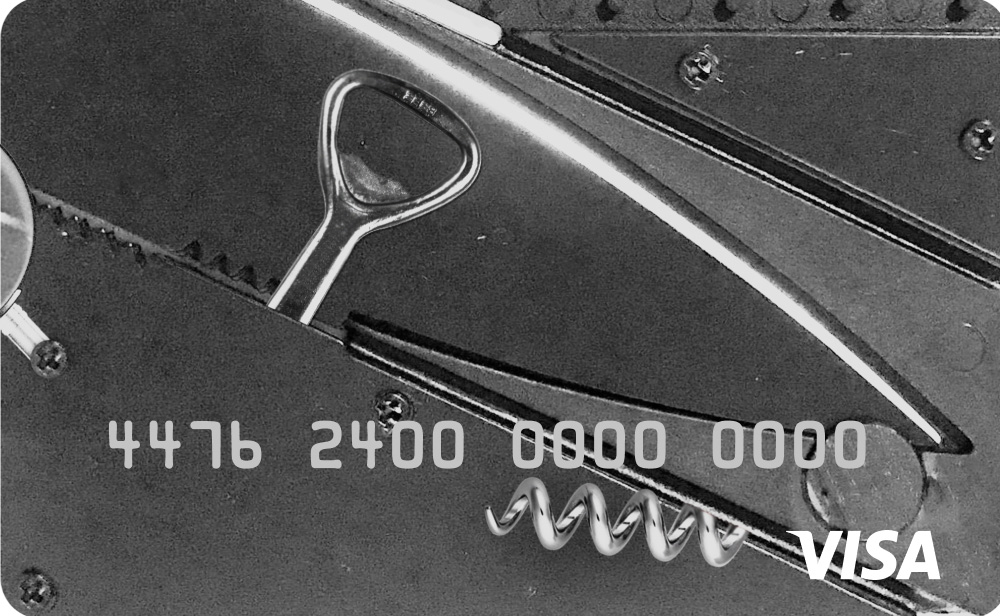
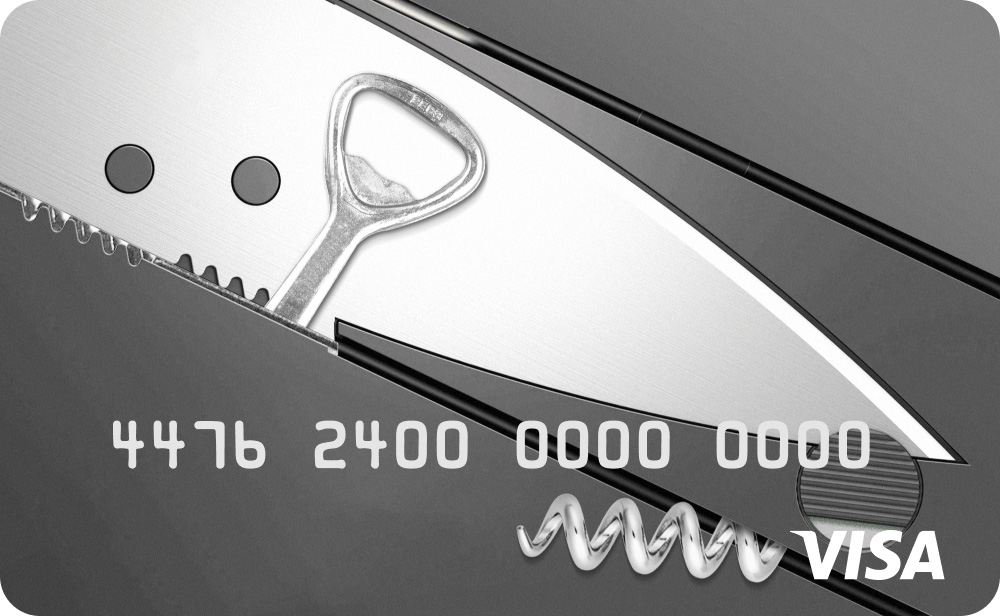
change 11,12 cards img and add pages

diff --git a/src/js/special.js b/src/js/special.js
@@ -70,10 +70,13 @@ class Special extends BaseSpecial {
     createQuestion() {
         EL.question = makeElement('div', CSS.main + '-question');
 
+        EL.qPages = makeElement('div', CSS.main + '-question__pages');
+
         EL.qCard = makeElement('div', [CSS.main + '-question__card', CSS.main + '-card']);
         EL.qCardImg = makeElement('img', CSS.main + '-card__img');
         EL.qCardLoupe = makeElement('img', CSS.main + '-card__loupe', {
-            src: 'images/cards/loupe.jpg',
+            src: 'images/cards/loupe.png',
+            srcset: 'images/cards/loupe@2x.png',
             style: 'display: none;'
         });
         EL.qCardLogo = makeElement('a', CSS.main + '-card__logo', {
@@ -179,6 +182,9 @@ class Special extends BaseSpecial {
     makeNextQuestion() {
         let question = Data.questions[this.activeIndex];
 
+        EL.qPages.innerHTML = (this.activeIndex + 1) + '<span>/</span>' + Data.questions.length;
+        EL.question.appendChild(EL.qPages);
+
         question.isHiddenLogo ? EL.qCardLogo.style.display = 'none' : EL.qCardLogo.style.display = 'block';
         question.isLoupe ? EL.qCardLoupe.style.display = 'block' : EL.qCardLoupe.style.display = 'none';
 
@@ -188,6 +194,7 @@ class Special extends BaseSpecial {
         EL.qCardHolder.textContent = '';
 
         question.isDark ? EL.qCard.classList.add('is-dark') : EL.qCard.classList.remove('is-dark');
+        question.isDarkLogo ? EL.qCard.classList.add('is-dark-logo') : EL.qCard.classList.remove('is-dark-logo');
         this.makeOptions(question.options);
 
         EL.qCard.style.opacity = 0;
@@ -221,6 +228,8 @@ class Special extends BaseSpecial {
     makeAnswer(el) {
         let id = el.dataset.id,
             question = Data.questions[this.activeIndex];
+
+        EL.question.removeChild(EL.qPages);
 
         EL.qCardHolder.textContent = question.holder;
 

diff --git a/src/js/data.js b/src/js/data.js
@@ -187,6 +187,7 @@ export default {
         img: 'images/cards/12.jpg',
         img2x: 'images/cards/12@2x.jpg',
         isLoupe: true,
+        isDarkLogo: true,
         holder: 'Anatoly Wasserman',
         correct: 'Да, это карта Вассермана.',
         incorrect: 'Нет, это карта Анатолия Вассермана, который красоте предпочитает практичность.',
